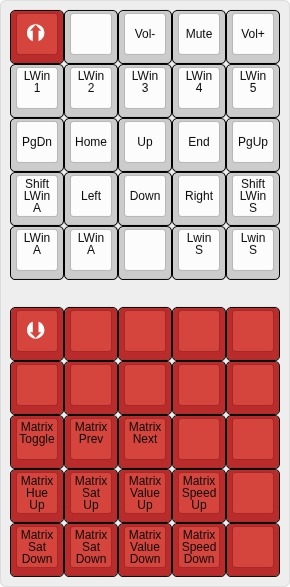
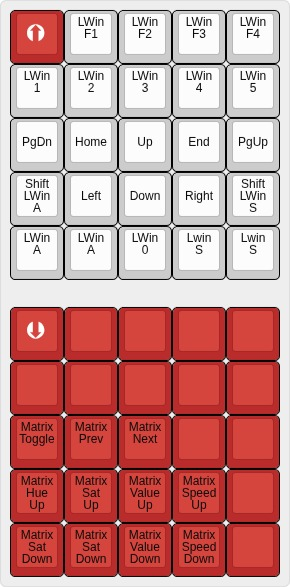
Updated keymap

diff --git a/keymap/keymap.c b/keymap/keymap.c
@@ -10,11 +10,11 @@ enum layer_names {
 
 const uint16_t PROGMEM keymaps[][MATRIX_ROWS][MATRIX_COLS] = {
     [_BASE] = LAYOUT(
-        TG(_BL),    _______,    KC_KB_VOLUME_DOWN, KC_KB_MUTE,   KC_KB_VOLUME_UP,
+        TG(_BL),    LWIN(KC_F1),LWIN(KC_F2),       LWIN(KC_F3),  LWIN(KC_F4),
         LWIN(KC_1), LWIN(KC_2), LWIN(KC_3),        LWIN(KC_4),   LWIN(KC_5), // META 1..5
-        KC_PGDN,    KC_HOME,    KC_PGUP,           KC_END,       KC_PGUP,
+        KC_PGDN,    KC_HOME,    KC_UP,             KC_END,       KC_PGUP,
         LSG(KC_A),  KC_LEFT,    KC_DOWN,           KC_RIGHT,     LSG(KC_S),
-        LWIN(KC_A), LWIN(KC_A), _______,           LWIN(KC_S),   LWIN(KC_S)
+        LWIN(KC_A), LWIN(KC_A), LWIN(KC_0),        LWIN(KC_S),   LWIN(KC_S)
    ),
     [_BL] = LAYOUT(
         _______,  _______,  _______, _______,  _______,

diff --git a/README.md b/README.md
@@ -16,4 +16,4 @@ Current versions of QMK have that keyboard as winry/winry25tc. But not with a fu
 
 ![Makropad](winry_layout.jpg)
 
-[Layout](https://www.keyboard-layout-editor.com/##@@_c=#ba2b2b&t=#ffffff&a:7&f:9;&=%3Ci%20class/='kb%20kb-Arrows-Up-Circle-Filled'%3E%3C//i%3E&_c=#cccccc&t=#000000&f:3;&=&=Vol-&=Mute&=Vol+;&@_a:5;&=LWin%0A%0A%0A%0A%0A%0A1&=LWin%0A%0A%0A%0A%0A%0A2&=LWin%0A%0A%0A%0A%0A%0A3&=LWin%0A%0A%0A%0A%0A%0A4&=LWin%0A%0A%0A%0A%0A%0A5;&@_a:7;&=PgDn&=Home&=Up&=End&=PgUp;&@_a:5;&=Shift%0AA%0A%0A%0A%0A%0ALWin&_a:7;&=Left&=Down&=Right&_a:5;&=Shift%0AS%0A%0A%0A%0A%0ALWin;&@=LWin%0A%0A%0A%0A%0A%0AA&=LWin%0A%0A%0A%0A%0A%0AA&_a:7;&=&_a:5;&=Lwin%0A%0A%0A%0A%0A%0AS&=Lwin%0A%0A%0A%0A%0A%0AS;&@_y:0.5&c=#ba2b2b&t=#ffffff&a:7&f:9;&=%3Ci%20class/='kb%20kb-Arrows-Down-Circle-Filled'%3E%3C//i%3E&_t=#000000&f:3;&=&=&=&=;&@=&=&=&=&=;&@_a:5;&=Matrix%0A%0A%0A%0A%0A%0AToggle&=Matrix%0A%0A%0A%0A%0A%0APrev&=Matrix%0A%0A%0A%0A%0A%0ANext&_a:7;&=&=;&@_a:5;&=Matrix%0AUp%0A%0A%0A%0A%0AHue&=Matrix%0AUp%0A%0A%0A%0A%0ASat&=Matrix%0AUp%0A%0A%0A%0A%0AValue&=Matrix%0AUp%0A%0A%0A%0A%0ASpeed&_a:7;&=;&@_a:5;&=Matrix%0ADown%0A%0A%0A%0A%0ASat&=Matrix%0ADown%0A%0A%0A%0A%0ASat&=Matrix%0ADown%0A%0A%0A%0A%0AValue&=Matrix%0ADown%0A%0A%0A%0A%0ASpeed&_a:7;&=)
+[Layout](https://www.keyboard-layout-editor.com/##@@_c=#ba2b2b&t=#ffffff&a:7&f:9;&=%3Ci%20class/='kb%20kb-Arrows-Up-Circle-Filled'%3E%3C//i%3E&_c=#cccccc&t=#000000&a:5&f:3;&=LWin%0A%0A%0A%0A%0A%0AF1&=LWin%0A%0A%0A%0A%0A%0AF2&=LWin%0A%0A%0A%0A%0A%0AF3&=LWin%0A%0A%0A%0A%0A%0AF4;&@=LWin%0A%0A%0A%0A%0A%0A1&=LWin%0A%0A%0A%0A%0A%0A2&=LWin%0A%0A%0A%0A%0A%0A3&=LWin%0A%0A%0A%0A%0A%0A4&=LWin%0A%0A%0A%0A%0A%0A5;&@_a:7;&=PgDn&=Home&=Up&=End&=PgUp;&@_a:5;&=Shift%0AA%0A%0A%0A%0A%0ALWin&_a:7;&=Left&=Down&=Right&_a:5;&=Shift%0AS%0A%0A%0A%0A%0ALWin;&@=LWin%0A%0A%0A%0A%0A%0AA&=LWin%0A%0A%0A%0A%0A%0AA&=LWin%0A%0A%0A%0A%0A%0A0&=Lwin%0A%0A%0A%0A%0A%0AS&=Lwin%0A%0A%0A%0A%0A%0AS;&@_y:0.5&c=#ba2b2b&t=#ffffff&a:7&f:9;&=%3Ci%20class/='kb%20kb-Arrows-Down-Circle-Filled'%3E%3C//i%3E&_t=#000000&f:3;&=&=&=&=;&@=&=&=&=&=;&@_a:5;&=Matrix%0A%0A%0A%0A%0A%0AToggle&=Matrix%0A%0A%0A%0A%0A%0APrev&=Matrix%0A%0A%0A%0A%0A%0ANext&_a:7;&=&=;&@_a:5;&=Matrix%0AUp%0A%0A%0A%0A%0AHue&=Matrix%0AUp%0A%0A%0A%0A%0ASat&=Matrix%0AUp%0A%0A%0A%0A%0AValue&=Matrix%0AUp%0A%0A%0A%0A%0ASpeed&_a:7;&=;&@_a:5;&=Matrix%0ADown%0A%0A%0A%0A%0ASat&=Matrix%0ADown%0A%0A%0A%0A%0ASat&=Matrix%0ADown%0A%0A%0A%0A%0AValue&=Matrix%0ADown%0A%0A%0A%0A%0ASpeed&_a:7;&=)
